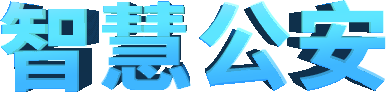
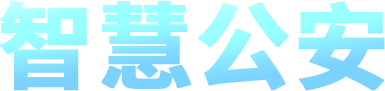
v2.3

diff --git a/src/views/About/jiaojing/index.vue b/src/views/About/jiaojing/index.vue
@@ -97,12 +97,13 @@ export default {
     .title-img {
         width: calc(~"193*@{pw}vw");
         height: calc(~"46*@{ph}vh");
-        background: url("../../../assets/GA/智慧公安/智慧公安.png") no-repeat;
+        background: url("../../../assets/JJ/智慧交警.png") no-repeat;
         background-size: 100% 100%;
         position: absolute;
         top: 0;
         left: calc(~"386*@{pw}vw");
     }
+
     .center {
         width: calc(~"469*@{pw}vw");
         height: calc(~"398*@{ph}vh");
@@ -115,6 +116,7 @@ export default {
         position: absolute;
         bottom: calc(~"20*@{ph}vh");
         left: calc(~"245*@{pw}vw");
+
         p {
             width: calc(~"387*@{pw}vw");
             height: calc(~"163*@{ph}vh");
@@ -122,6 +124,7 @@ export default {
             color: #ffffff;
         }
     }
+
     .bottom {
         width: calc(~"609*@{pw}vw");
         height: calc(~"37*@{ph}vh");
@@ -131,6 +134,7 @@ export default {
         bottom: 0;
         left: calc(~"147*@{pw}vw");
     }
+
     .btn {
         position: absolute;
         display: flex;
@@ -142,6 +146,7 @@ export default {
         cursor: pointer;
         width: calc(~"203*@{pw}vw");
         height: calc(~"46*@{ph}vh");
+
         &:hover {
             font-size: 3.4rem;
             font-weight: 500;
@@ -150,37 +155,45 @@ export default {
             height: calc(~"49*@{ph}vh");
             line-height: calc(~"49*@{ph}vh");
         }
+
         &-lf {
             background: url("../../../assets/GA/智慧公安/button-left.png")
                 no-repeat;
             background-size: 100% 100%;
+
             &:hover {
                 background: url("../../../assets/GA/智慧公安/button-left-select.png")
                     no-repeat;
                 background-size: 100% 100%;
             }
+
             &-1 {
                 top: calc(~"47*@{ph}vh");
                 left: calc(~"50*@{pw}vw");
             }
+
             &-2 {
                 top: calc(~"(47 + 46 + 21)*@{ph}vh");
                 left: calc(~"(50 - 24)*@{pw}vw");
             }
+
             &-3 {
                 top: calc(~"(47 + 46 + 21 + 46 + 21)*@{ph}vh");
                 left: calc(~"(50 - 24 - 24)*@{pw}vw");
             }
+
             &-4 {
                 top: calc(~"(47 + 46 + 21 + 46 + 21 + 46 + 21)*@{ph}vh");
                 left: calc(~"(50 - 24)*@{pw}vw");
             }
+
             &-5 {
                 top: calc(
                     ~"(47 + 46 + 21 + 46 + 21 + 46 + 21 + 46 + 21)*@{ph}vh"
                 );
                 left: calc(~"50*@{pw}vw");
             }
+
             &-6 {
                 top: calc(
                     ~"(47 + 46 + 21 + 46 + 21 + 46 + 21 + 46 + 21 + 46 + 21)*@{ph}vh"
@@ -188,31 +201,38 @@ export default {
                 left: calc(~"(50 + 24)*@{pw}vw");
             }
         }
+
         &-rt {
             background: url("../../../assets/GA/智慧公安/button-right.png")
                 no-repeat;
             background-size: 100% 100%;
+
             &:hover {
                 background: url("../../../assets/GA/智慧公安/button-right-select.png")
                     no-repeat;
                 background-size: 100% 100%;
             }
+
             &-1 {
                 top: calc(~"67*@{ph}vh");
                 right: calc(~"50*@{pw}vw");
             }
+
             &-2 {
                 top: calc(~"(67 + 46 + 21)*@{ph}vh");
                 right: calc(~"(50 - 24)*@{pw}vw");
             }
+
             &-3 {
                 top: calc(~"(67 + 46 + 21 + 46 + 21)*@{ph}vh");
                 right: calc(~"(50 - 24 - 24)*@{pw}vw");
             }
+
             &-4 {
                 top: calc(~"(67 + 46 + 21 + 46 + 21 + 46 + 21)*@{ph}vh");
                 right: calc(~"(50 - 24)*@{pw}vw");
             }
+
             &-5 {
                 top: calc(
                     ~"(67 + 46 + 21 + 46 + 21 + 46 + 21 + 46 + 21)*@{ph}vh"

diff --git a/src/views/About/gongan/index.vue b/src/views/About/gongan/index.vue
@@ -80,8 +80,8 @@ export default {
                     text: "无人机安全监管系统"
                 },
                 {
-                    name: "YiShiSanBiao",
-                    text: "一实三标"
+                    name: "YiBiaoSanShi",
+                    text: "一标三实"
                 },
                 {
                     name: "GAServerSystem",
